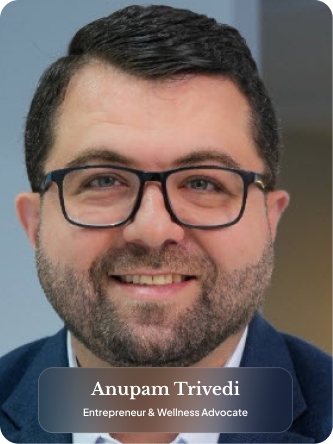
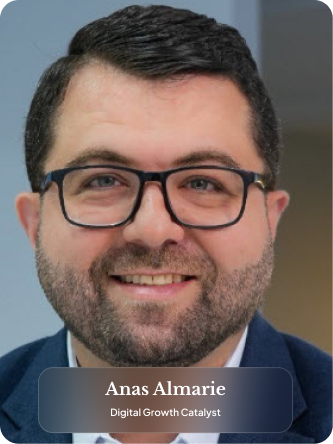
updated two speakers

Changed region(s): [[0.2402, 0.8491, 0.7508, 0.9369]]

diff --git a/src/components/speakerSection/index.jsx b/src/components/speakerSection/index.jsx
@@ -42,6 +42,7 @@ import pico from "@/../public/pico.png";
 import krohn from "@/../public/krohn.png";
 import breen from "@/../public/breen.png";
 import anas from "@/../public/anas.png";
+import ahmed from "@/../public/ahmed.png";
 const speakers = [
   {
     slug: "hiroshi-ishiguro",
@@ -280,8 +281,14 @@ const speakers = [
    { 
     slug: "anas-almarie",
     name: "Anas Almarie",
-    title: "Anas Almarie is an award-winning digital growth consultant and engineer with 17 years of experience, leading Social Station Branding & Marketing Agency in Dubai. He serves Fortune 500 companies and local businesses with branding, digital marketing, AI, and social media solutions. As Digital Marketing Institute trainer and LinkedIn Solutions Advisor, he maintains 98% satisfaction feedback. A keynote speaker featured on Dubai Eye, Sky News Arabia,",
+    title: "Anas Almarie is an award-winning digital growth consultant and engineer with 17 years of experience, leading Social Station Branding & Marketing Agency in Dubai. He serves Fortune 500 companies and local businesses with branding, digital marketing, AI, and social media solutions. As Digital Marketing Institute trainer and LinkedIn Solutions Advisor, he maintains 98% satisfaction feedback. A keynote speaker featured on Dubai Eye, Sky News Arabia, Al Arabiya, and CNBC Arabia, Almarie speaks at events across the MENA region.",
     img: anas
+  },
+  { 
+    slug: "ahmed-khbeer",
+    name: "Ahmed Khbeer",
+    title: "Anas Almarie is an award-winning digital growth consultant and engineer with 17 years of experience, leading Social Station Branding & Marketing Agency in Dubai. He serves Fortune 500 companies and local businesses with branding, digital marketing, AI, and social media solutions. As Digital Marketing Institute trainer and LinkedIn Solutions Advisor, he maintains 98% satisfaction feedback. A keynote speaker featured on Dubai Eye, Sky News Arabia, Al Arabiya, and CNBC Arabia, Almarie speaks at events across the MENA region.",
+    img: ahmed
   },
 ];
 

diff --git a/src/app/speakers/ahmed-khbeer/page.jsx b/src/app/speakers/ahmed-khbeer/page.jsx
@@ -1,0 +1,23 @@
+import Image from "next/image";
+import ahmed from "@/../public/ahmed.png";
+
+export default function GaryABolles() {
+  return (
+    <div className="p-8 max-w-3xl mx-auto text-center mt-20">
+      <Image
+        src={ahmed}
+        alt="Hiroshi Ishiguro"
+        width={300}
+        height={300}
+        className="mx-auto rounded-2xl shadow-md"
+      />
+      <h1 className="text-3xl font-bold mt-6">Ahmed Khbeer
+</h1>
+      <p className="mt-4 text-lg text-gray-700">
+        Ahmed Khbeer is Partner and Group CEO at Tafaseel BPO, growing the company from seven employees to 2000+ across six countries (UAE, KSA, Egypt, Qatar, Bahrain, US), earning top CX awards and attracting global investment. Founder and CEO of OnBoard, UAE's first People-as-a-Service EOR subscription platform, and Co-Founder of
+Rannah.ae, the world's first automated on-demand call center subscription platform. Board member at Dubai Chamber of Commerce Contact Centers Business Group, currently building Sonic AI, the Middle East’s first voice AI Unicorn.
+Region: GCC/Europe
+      </p>
+    </div>
+  );
+}

diff --git a/src/app/speakers/anas-almarie/page.jsx b/src/app/speakers/anas-almarie/page.jsx
@@ -1,0 +1,21 @@
+import Image from "next/image";
+import anas from "@/../public/anas.png";
+
+export default function GaryABolles() {
+  return (
+    <div className="p-8 max-w-3xl mx-auto text-center mt-20">
+      <Image
+        src={anas}
+        alt="Hiroshi Ishiguro"
+        width={300}
+        height={300}
+        className="mx-auto rounded-2xl shadow-md"
+      />
+      <h1 className="text-3xl font-bold mt-6">Anas Almarie
+</h1>
+      <p className="mt-4 text-lg text-gray-700">
+        Anas Almarie is an award-winning digital growth consultant and engineer with 17 years of experience, leading Social Station Branding & Marketing Agency in Dubai. He serves Fortune 500 companies and local businesses with branding, digital marketing, AI, and social media solutions. As Digital Marketing Institute trainer and LinkedIn Solutions Advisor, he maintains 98% satisfaction feedback. A keynote speaker featured on Dubai Eye, Sky News Arabia, Al Arabiya, and CNBC Arabia, Almarie speaks at events across the MENA region.
+      </p>
+    </div>
+  );
+}
